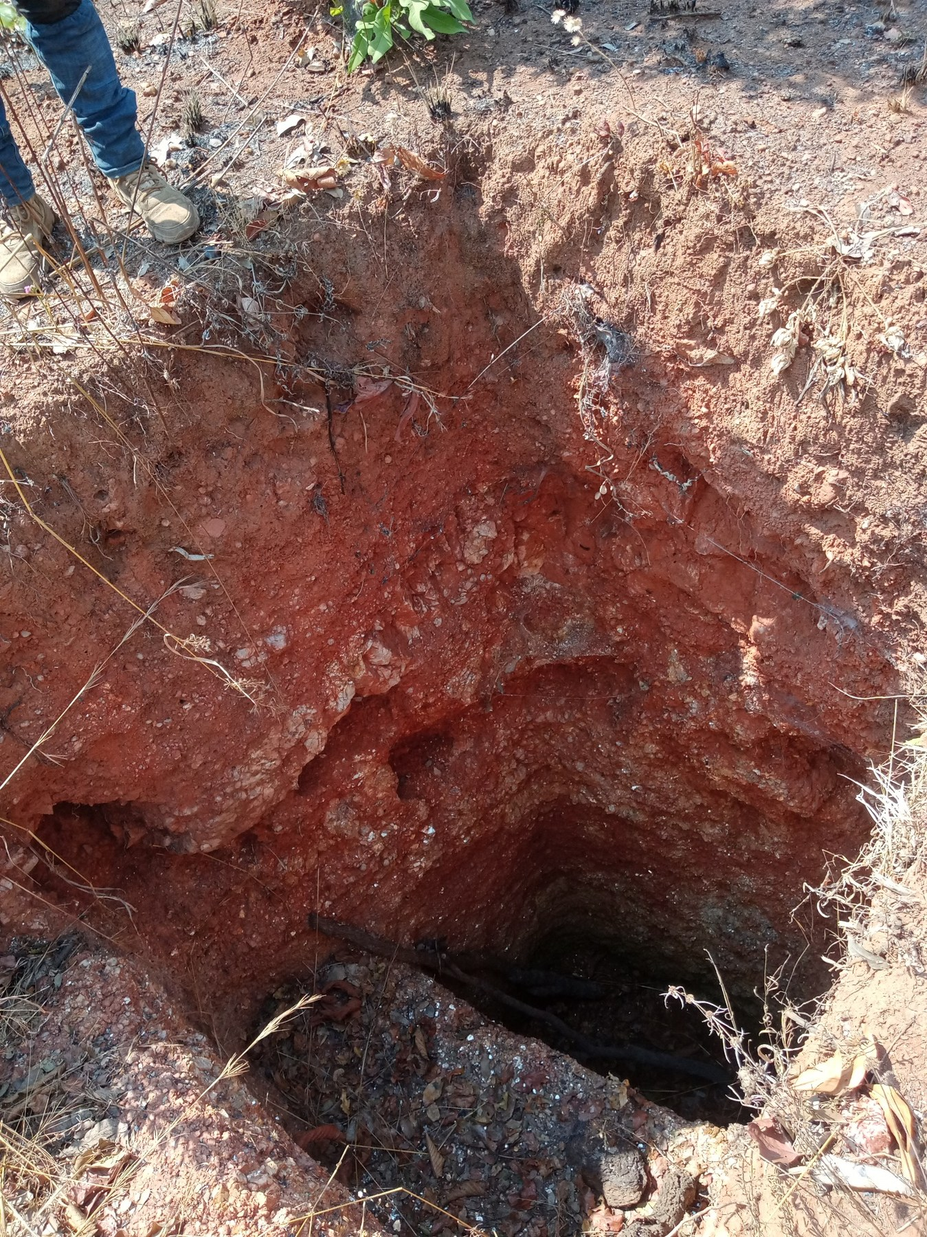
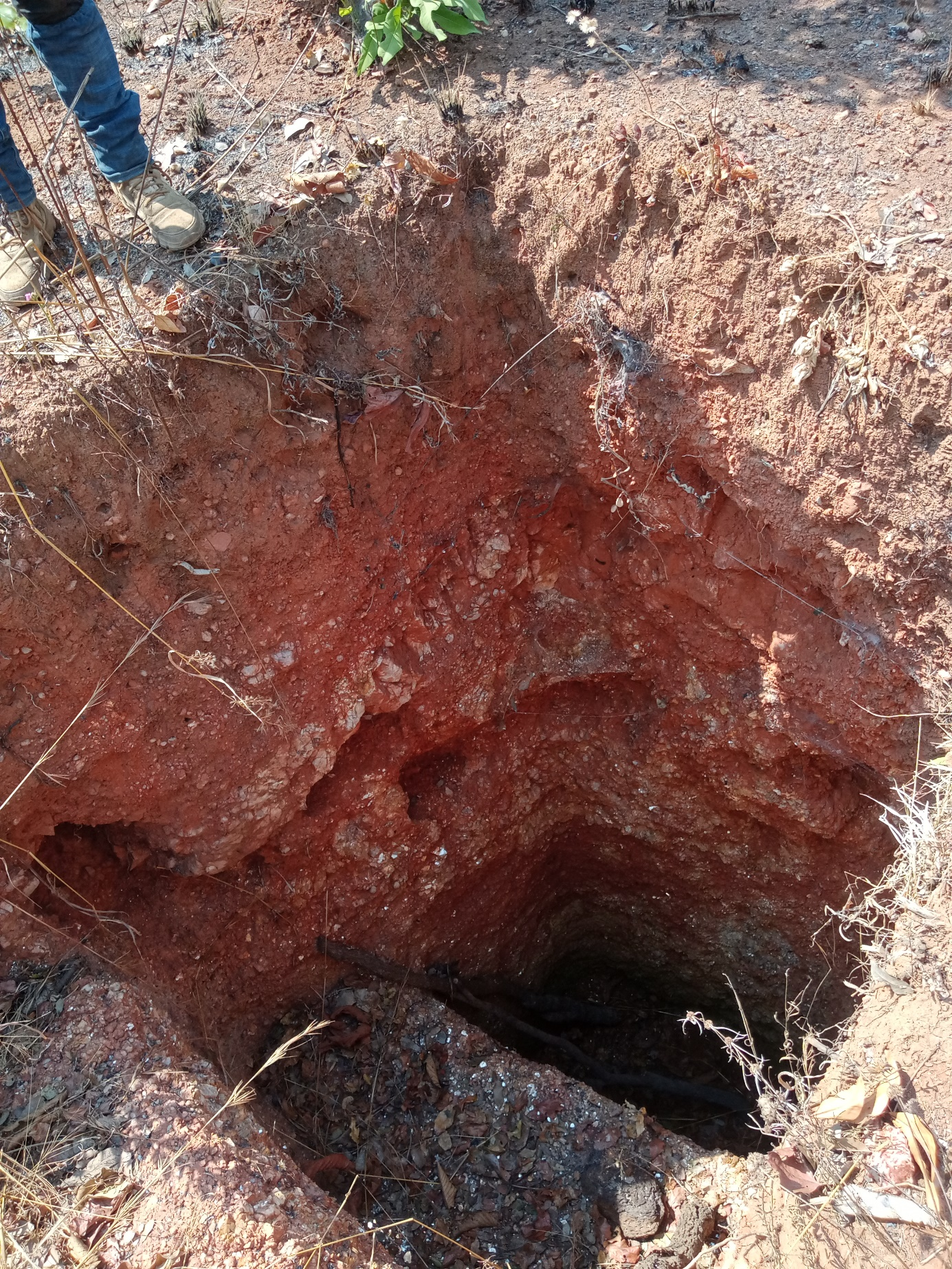
Update Activités permit maps and keep Galerie to full-size terrain photos

diff --git a/galerie.html b/galerie.html
@@ -4,10 +4,10 @@
   <meta charset="utf-8">
   <meta name="viewport" content="width=device-width, initial-scale=1">
   <title>Galerie — SOMIMI SARL</title>
-  <meta name="description" content="Galerie SOMIMI — terrain de Mitwaba et échantillons d’étain, tantale et tungstène.">
+  <meta name="description" content="Galerie SOMIMI — photos de terrain à Mitwaba.">
   <link rel="canonical" href="./">
   <meta property="og:title" content="Galerie — SOMIMI SARL">
-  <meta property="og:description" content="Galerie SOMIMI — terrain de Mitwaba et échantillons d’étain, tantale et tungstène.">
+  <meta property="og:description" content="Galerie SOMIMI — photos de terrain à Mitwaba.">
   <meta property="og:image" content="images/og-placeholder.jpg">
   <meta name="theme-color" content="#0B1F3A">
   <link rel="icon" href="favicon.svg" type="image/svg+xml">
@@ -43,28 +43,17 @@
   <p class="section-kicker">Mémoire visuelle</p>
   <h1 class="font-serif text-5xl mt-3 text-navy">Galerie</h1>
   <div class="rule-bronze my-8"></div>
-  <p class="max-w-3xl text-muted leading-relaxed">Photos de terrain à Mitwaba et échantillons des minerais 3T (étain, tantale, tungstène). Les cartes et analyses sont présentées dans la page <a href="activites.html" class="text-[#1E4D7B]">Activités</a>.</p>
+  <p class="max-w-3xl text-muted leading-relaxed">Photos de terrain à Mitwaba. Les cartes et analyses sont présentées dans la page <a href="activites.html" class="text-[#1E4D7B]">Activités</a>.</p>
 
-  <h2 class="font-serif text-3xl text-navy mt-14">Terrain</h2>
-  <div class="mt-6 grid sm:grid-cols-2 gap-4">
+  <div class="mt-10 grid sm:grid-cols-2 lg:grid-cols-3 gap-4">
+    <a href="#" class="block" data-gallery-item data-full="images/gallery-01.jpg" data-caption="" tabindex="0">
+      <img src="images/gallery-01.jpg" alt="" width="3072" height="4096" loading="lazy" class="w-full h-auto bg-paper">
+    </a>
     <a href="#" class="block" data-gallery-item data-full="images/terrain-eluvions.jpg" data-caption="" tabindex="0">
-      <img src="images/terrain-eluvions.jpg" alt="" width="1386" height="1040" loading="lazy" class="w-full aspect-[4/3] object-cover bg-paper">
+      <img src="images/terrain-eluvions.jpg" alt="" width="1386" height="1040" loading="lazy" class="w-full h-auto bg-paper">
     </a>
     <a href="#" class="block" data-gallery-item data-full="images/terrain-puits-pegmatite.jpg" data-caption="" tabindex="0">
-      <img src="images/terrain-puits-pegmatite.jpg" alt="" width="1349" height="1800" loading="lazy" class="w-full aspect-[4/3] object-cover object-top bg-paper">
-    </a>
-  </div>
-
-  <h2 class="font-serif text-3xl text-navy mt-14">Minerais</h2>
-  <div class="mt-6 grid sm:grid-cols-3 gap-4">
-    <a href="#" class="block" data-gallery-item data-full="images/echantillon-etain.png" data-caption="" tabindex="0">
-      <img src="images/echantillon-etain.png" alt="" width="800" height="800" loading="lazy" class="w-full aspect-square object-contain bg-paper border border-line p-4">
-    </a>
-    <a href="#" class="block" data-gallery-item data-full="images/echantillon-tantale.png" data-caption="" tabindex="0">
-      <img src="images/echantillon-tantale.png" alt="" width="800" height="800" loading="lazy" class="w-full aspect-square object-contain bg-paper border border-line p-4">
-    </a>
-    <a href="#" class="block" data-gallery-item data-full="images/echantillon-tungstene.png" data-caption="" tabindex="0">
-      <img src="images/echantillon-tungstene.png" alt="" width="800" height="800" loading="lazy" class="w-full aspect-square object-contain bg-paper border border-line p-4">
+      <img src="images/terrain-puits-pegmatite.jpg" alt="" width="1385" height="1847" loading="lazy" class="w-full h-auto bg-paper">
     </a>
   </div>
 </main>

diff --git a/activites.html b/activites.html
@@ -49,47 +49,24 @@
   <section class="mt-16" aria-labelledby="permis-vue">
     <h2 id="permis-vue" class="font-serif text-3xl text-navy">Où sont nos permis&nbsp;?</h2>
     <p class="mt-4 max-w-3xl text-muted leading-relaxed">Les quatre permis SOMIMI sont situés autour de Mitwaba (contours rouges)&nbsp;: PR&nbsp;12443, PR&nbsp;12444, PR&nbsp;12445 et PEPM&nbsp;14840.</p>
-    <figure class="mt-8">
+    <div class="mt-8 space-y-6">
+      <img
+        src="images/image6.jpeg"
+        alt="Carte des permis SOMIMI SARL — fond topographique Mitwaba"
+        width="819"
+        height="627"
+        loading="lazy"
+        class="w-full border border-line bg-paper object-contain"
+      >
       <img
         src="images/carte-permis-somimi.jpg"
-        alt="Carte des permis SOMIMI SARL en contours rouges autour de Mitwaba"
-        width="1050"
+        alt="Carte des permis SOMIMI SARL — vue satellite"
+        width="902"
         height="632"
         loading="lazy"
         class="w-full border border-line bg-paper object-contain"
       >
-    </figure>
-  </section>
-
-  <section class="mt-16" aria-labelledby="acces-permis">
-    <h2 id="acces-permis" class="font-serif text-3xl text-navy">Comment y accéder&nbsp;?</h2>
-    <p class="mt-4 max-w-3xl text-muted leading-relaxed">Sur le permis de recherche PR&nbsp;12444 (sites de Kilungu et Kankalakala), environ 30&nbsp;km de pistes d’accès sont à entretenir pour desservir les sites miniers.</p>
-    <figure class="mt-8">
-      <img
-        src="images/voies-acces-pr12444.jpg"
-        alt="Carte des voies d’accès du PR 12444"
-        width="1050"
-        height="632"
-        loading="lazy"
-        class="w-full border border-line bg-paper object-contain"
-      >
-    </figure>
-  </section>
-
-  <section class="mt-16" aria-labelledby="activite-terrain">
-    <h2 id="activite-terrain" class="font-serif text-3xl text-navy">Où y a-t-il déjà de l’activité&nbsp;?</h2>
-    <p class="mt-4 max-w-3xl text-muted leading-relaxed">Sur le PR&nbsp;12443, des sites artisanaux sont identifiés (Kabibio, Kansanga, Kabimbeji…). Les photos illustrent une exploitation dans les éluvions et un puits en pegmatite altérée.</p>
-    <figure class="mt-8">
-      <img
-        src="images/carte-sites-pr12443.jpg"
-        alt="Carte du PR 12443 et de ses sites miniers artisanaux"
-        width="1050"
-        height="632"
-        loading="lazy"
-        class="w-full border border-line bg-paper object-contain"
-      >
-    </figure>
-    <p class="mt-8 text-sm text-muted"><a href="galerie.html" class="text-[#1E4D7B]">Voir les photos terrain dans la Galerie</a></p>
+    </div>
   </section>
 
   <section class="mt-16" aria-labelledby="cadre-geo">
